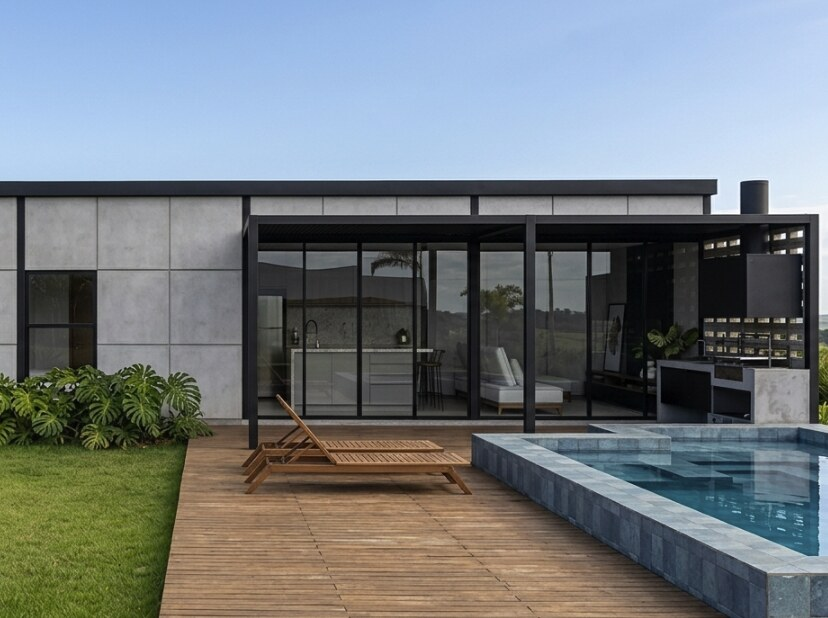
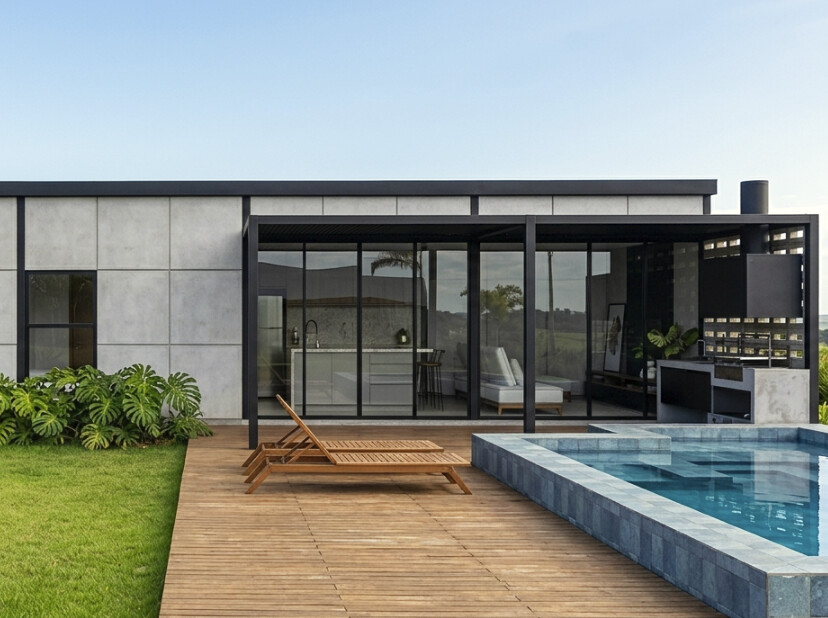
Home: CRUDO 04 como próxima tipología y portada de CRUDO 03 más luminosa
- Tarjeta de CRUDO 04 (sin página propia) con consulta por WhatsApp.
- Portada de CRUDO 03 en la home corregida en luz y color.

Claude-Session: https://claude.ai/code/session_017Vr8wmFyVp8prFhmV4Np2m

diff --git a/components/sections/UpcomingModelCard.tsx b/components/sections/UpcomingModelCard.tsx
@@ -1,0 +1,46 @@
+import Image from "next/image";
+import { whatsappLink } from "@/lib/whatsapp";
+
+type Props = {
+  model: { name: string; cover: string; coverAlt: string };
+};
+
+// Tarjeta de una tipología que todavía no tiene página: misma estética que
+// ModelCard, sin datos técnicos y con consulta por WhatsApp.
+export default function UpcomingModelCard({ model }: Props) {
+  return (
+    <div>
+      <div className="relative aspect-[4/3] w-full overflow-hidden bg-cement">
+        <Image
+          src={model.cover}
+          alt={model.coverAlt}
+          fill
+          sizes="(min-width: 768px) 50vw, 100vw"
+          className="object-cover"
+        />
+      </div>
+
+      <h3 className="display-md mt-6">{model.name}</h3>
+      <p className="kicker mt-3 text-muted">Próximamente</p>
+
+      <p className="body-text mt-5 border-t border-hairline pt-4 text-muted">
+        Una nueva tipología CRUDO, muy pronto.
+      </p>
+
+      <a
+        href={whatsappLink("general")}
+        target="_blank"
+        rel="noopener noreferrer"
+        className="group kicker mt-7 inline-flex items-center gap-3 border border-iron px-6 py-3.5 transition-colors duration-300 hover:bg-iron hover:text-alabaster"
+      >
+        Consultar
+        <span
+          aria-hidden
+          className="transition-transform duration-300 group-hover:translate-x-1"
+        >
+          →
+        </span>
+      </a>
+    </div>
+  );
+}

diff --git a/app/page.tsx b/app/page.tsx
@@ -3,10 +3,11 @@ import Cta from "@/components/ui/Cta";
 import Reveal from "@/components/ui/Reveal";
 import Hero from "@/components/sections/Hero";
 import ModelCard from "@/components/sections/ModelCard";
+import UpcomingModelCard from "@/components/sections/UpcomingModelCard";
 import ProcessBanner from "@/components/sections/ProcessBanner";
 import Versatility from "@/components/sections/Versatility";
 import FinalCta from "@/components/sections/FinalCta";
-import { models } from "@/lib/content";
+import { models, upcomingModels } from "@/lib/content";
 import { whatsappLink } from "@/lib/whatsapp";
 
 export default function Home() {
@@ -79,6 +80,11 @@ export default function Home() {
             {models.map((model, index) => (
               <Reveal key={model.slug} delay={index * 120}>
                 <ModelCard model={model} showPrice={false} useHomeCover />
+              </Reveal>
+            ))}
+            {upcomingModels.map((model, index) => (
+              <Reveal key={model.name} delay={(models.length + index) * 120}>
+                <UpcomingModelCard model={model} />
               </Reveal>
             ))}
           </div>

diff --git a/lib/content.ts b/lib/content.ts
@@ -546,6 +546,17 @@ export const models: Model[] = [
   },
 ];
 
+// Tipologías anunciadas que todavía no tienen página propia: solo se muestran
+// como tarjeta en la home.
+export const upcomingModels = [
+  {
+    name: "CRUDO 04",
+    cover: "/images/a-medida/crudo-04-frontal.jpg",
+    coverAlt:
+      "CRUDO 04 de frente: techo a dos aguas, galería vidriada y tina exenta, al pie de un cerro",
+  },
+];
+
 export const processSteps = [
   {
     number: "01",
